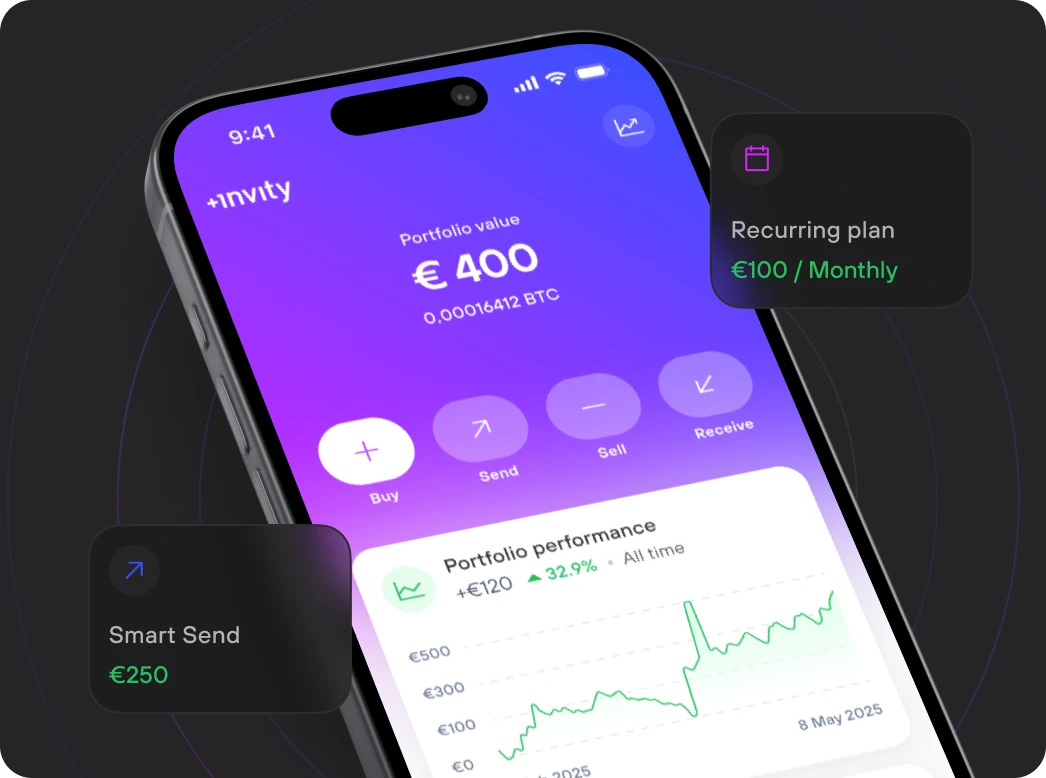
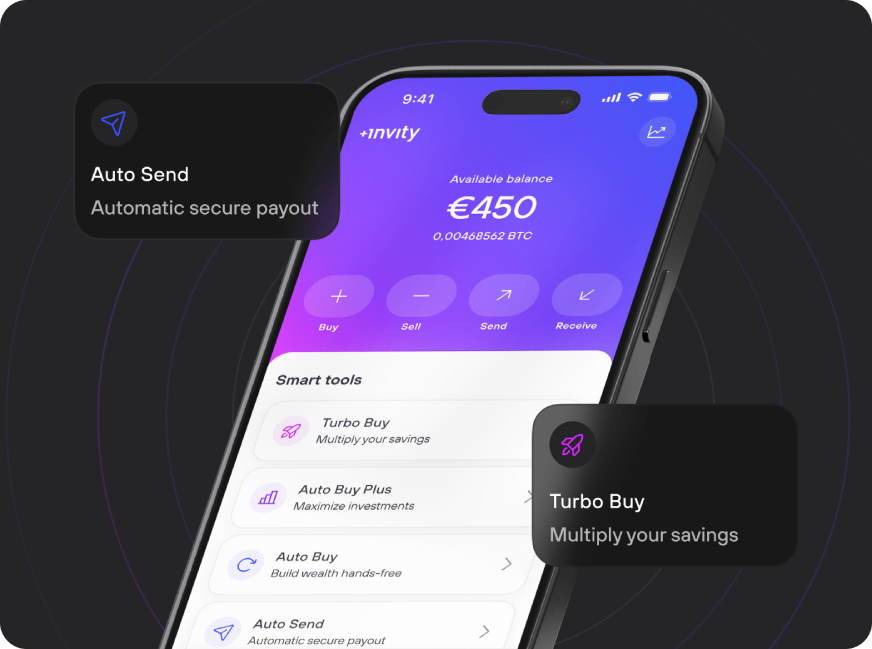
feat(trading): update DCA copy and assets

diff --git a/packages/suite/src/support/messages.ts b/packages/suite/src/support/messages.ts
@@ -1414,24 +1414,24 @@ export default defineMessages({
         id: 'TR_TRADING_DCA_HEADING',
     },
     TR_TRADING_DCA_FEATURE_1_SUBHEADING: {
-        defaultMessage: 'Build your bitcoin portfolio',
+        defaultMessage: 'Build your bitcoin portfolio with the Invity app',
         id: 'TR_TRADING_DCA_FEATURE_1_SUBHEADING',
         dynamic: true,
     },
     TR_TRADING_DCA_FEATURE_1_DESCRIPTION: {
         defaultMessage:
-            'Invest automatically with the Invity app and grow your bitcoin savings over time.',
+            'Set it & forget it with Auto Buy or let Auto Buy Plus optimize your timing for smarter stacking.',
         id: 'TR_TRADING_DCA_FEATURE_1_DESCRIPTION',
         dynamic: true,
     },
     TR_TRADING_DCA_FEATURE_2_SUBHEADING: {
-        defaultMessage: 'Secure & reliable—built in partnership with Trezor',
+        defaultMessage: 'Boost your growth with Turbo Buy',
         id: 'TR_TRADING_DCA_FEATURE_2_SUBHEADING',
         dynamic: true,
     },
     TR_TRADING_DCA_FEATURE_2_DESCRIPTION: {
         defaultMessage:
-            'Built for long-term bitcoin investors who value security and self-custody.',
+            'Add up to 60% more capital on top of your regular plan to accelerate returns.',
         id: 'TR_TRADING_DCA_FEATURE_2_DESCRIPTION',
         dynamic: true,
     },
@@ -1442,7 +1442,7 @@ export default defineMessages({
     },
     TR_TRADING_DCA_FEATURE_3_DESCRIPTION: {
         defaultMessage:
-            'Smart Send automatically moves your bitcoin to your Trezor at no extra cost, keeping your investments secure and always in your control.',
+            'Auto Send automatically moves your bitcoin to your Trezor at no extra cost, keeping your investments secure and always under your control.',
         id: 'TR_TRADING_DCA_FEATURE_3_DESCRIPTION',
         dynamic: true,
     },
@@ -1457,12 +1457,12 @@ export default defineMessages({
         dynamic: true,
     },
     TR_TRADING_DCA_STEP_CARD_2_SUBHEADING: {
-        defaultMessage: 'Set up a hassle-free automatic plan.',
+        defaultMessage: 'Set up your preferred automatic plan',
         id: 'TR_TRADING_DCA_STEP_CARD_2_SUBHEADING',
         dynamic: true,
     },
     TR_TRADING_DCA_STEP_CARD_2_DESCRIPTION: {
-        defaultMessage: "It's up to you—weekly, every two weeks, or monthly.",
+        defaultMessage: 'Choose Auto Buy, Auto Buy Plus, or Turbo Buy.',
         id: 'TR_TRADING_DCA_STEP_CARD_2_DESCRIPTION',
         dynamic: true,
     },
@@ -1472,7 +1472,8 @@ export default defineMessages({
         dynamic: true,
     },
     TR_TRADING_DCA_STEP_CARD_3_DESCRIPTION: {
-        defaultMessage: 'Use Smart Send to automatically move your bitcoin to your Trezor.',
+        defaultMessage:
+            'Use Auto Send to automatically move your bitcoin to your Trezor (not valid for active Turbo Buy).',
         id: 'TR_TRADING_DCA_STEP_CARD_3_DESCRIPTION',
         dynamic: true,
     },
